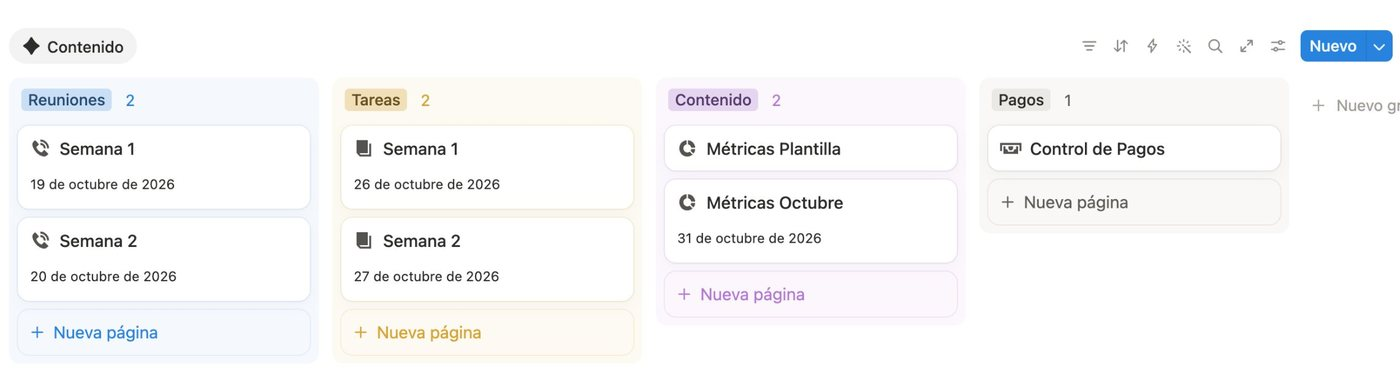
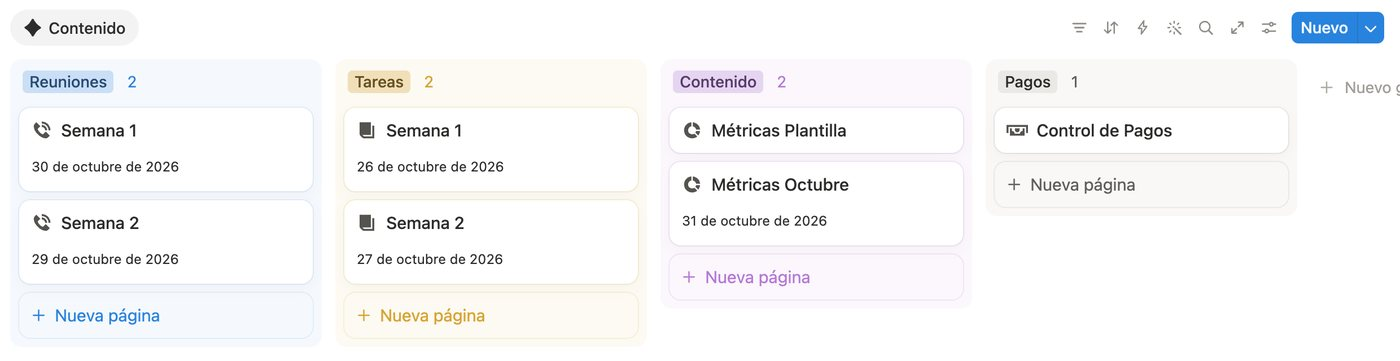
Plantilla: capturas de la versión nueva
Claude-Session: https://claude.ai/code/session_01UYwE8mnXEk4msTXBbULvfE

diff --git a/plantilla-notion-contenido/index.html b/plantilla-notion-contenido/index.html
@@ -374,7 +374,7 @@ footer{background:var(--vino);color:var(--crema);padding:72px 0 36px}
       <p class="compra__nota">Pago seguro con Bold. Te llega al correo apenas pagas.</p>
     </div>
     <div class="pl-hero__img">
-      <img src="/img/plantilla-espacio.jpg" alt="Plantilla de Notion de Creando con Gaaby con portada de marca personal, metas y archivos" width="1400" height="999">
+      <img src="/img/plantilla-espacio.jpg" alt="Plantilla de Notion Planificación de contenido con metas, links importantes, archivos y playlist de Spotify" width="1400" height="987">
       <span class="mano">así se ve por dentro</span>
     </div>
   </div>
@@ -386,9 +386,9 @@ footer{background:var(--vino);color:var(--crema);padding:72px 0 36px}
     <h2 style="margin-top:8px">Todo tu contenido en un solo <span class="brillo">espacio</span></h2>
     <div class="bloques">
       <article class="bloque">
-        <img src="/img/plantilla-espacio.jpg" alt="Espacio de marca en Notion con metas a corto, mediano y largo plazo, archivos y links importantes" width="1400" height="999" loading="lazy">
+        <img src="/img/plantilla-espacio.jpg" alt="Espacio de marca en Notion con metas a corto, mediano y largo plazo, archivos, links importantes y playlist de Spotify" width="1400" height="987" loading="lazy">
         <div><h3>El espacio de tu marca</h3><p>Lo que necesitas tener a mano, en una sola página.</p>
-        <ul class="incluye"><li>Metas a corto, mediano y largo plazo</li><li>Archivos: guía para usar el espacio, contrato, control de pagos y métricas</li><li>Links importantes: brief, Drive, redes sociales y marca</li><li>Botones para crear una tarea o una idea nueva en un clic</li></ul></div>
+        <ul class="incluye"><li>Metas a corto, mediano y largo plazo</li><li>Archivos: guía para usar el espacio, contrato, control de pagos y métricas</li><li>Links importantes: brief, Drive, redes sociales y marca</li><li>Botones para crear una tarea o una idea nueva en un clic</li><li>Tu playlist de Spotify para trabajar con música</li></ul></div>
       </article>
       <article class="bloque">
         <img src="/img/plantilla-calendario.jpg" alt="Calendario de contenido en Notion con pilares de contenido y la vista del feed de Instagram" width="1400" height="1036" loading="lazy">
@@ -396,12 +396,12 @@ footer{background:var(--vino);color:var(--crema);padding:72px 0 36px}
         <ul class="incluye"><li>Vistas de planificación, Instagram e historias</li><li>Pilares de contenido: branding, engagement y venta</li><li>Vista de tu feed de Instagram para cuidar la coherencia de tu perfil</li></ul></div>
       </article>
       <article class="bloque">
-        <img src="/img/plantilla-equipo.jpg" alt="Tablero en Notion con columnas de reuniones, tareas, contenido y pagos" width="1400" height="380" loading="lazy">
+        <img src="/img/plantilla-equipo.jpg" alt="Tablero en Notion con columnas de reuniones, tareas, contenido y pagos" width="1400" height="361" loading="lazy">
         <div><h3>Contenido de marca</h3><p>Todo lo que pasa alrededor de tu contenido, organizado por semana.</p>
         <ul class="incluye"><li>Calendario de reuniones, tareas y métricas</li><li>Tablero con reuniones, tareas, contenido y pagos</li></ul></div>
       </article>
       <article class="bloque">
-        <img src="/img/plantilla-ideas.jpg" alt="Espacio creativo de ideas y lista de creadores que inspiran en Notion" width="1400" height="319" loading="lazy">
+        <img src="/img/plantilla-ideas.jpg" alt="Espacio creativo de ideas y lista de creadores que inspiran en Notion" width="1400" height="333" loading="lazy">
         <div><h3>Espacio creativo</h3><p>Para que ninguna idea se te pierda.</p>
         <ul class="incluye"><li>Banco de ideas con formato y referencia</li><li>Lista de creadores que te inspiran</li></ul></div>
       </article>
